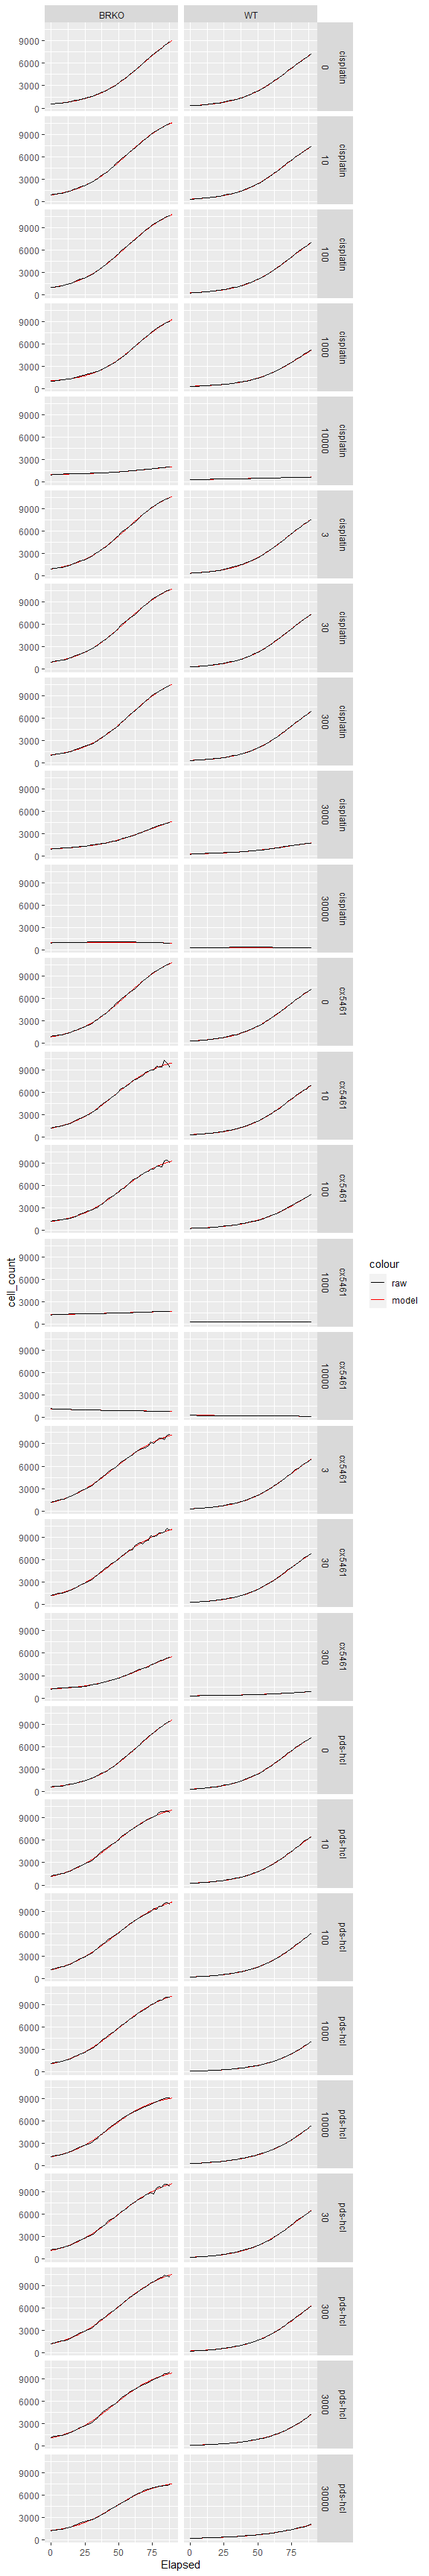
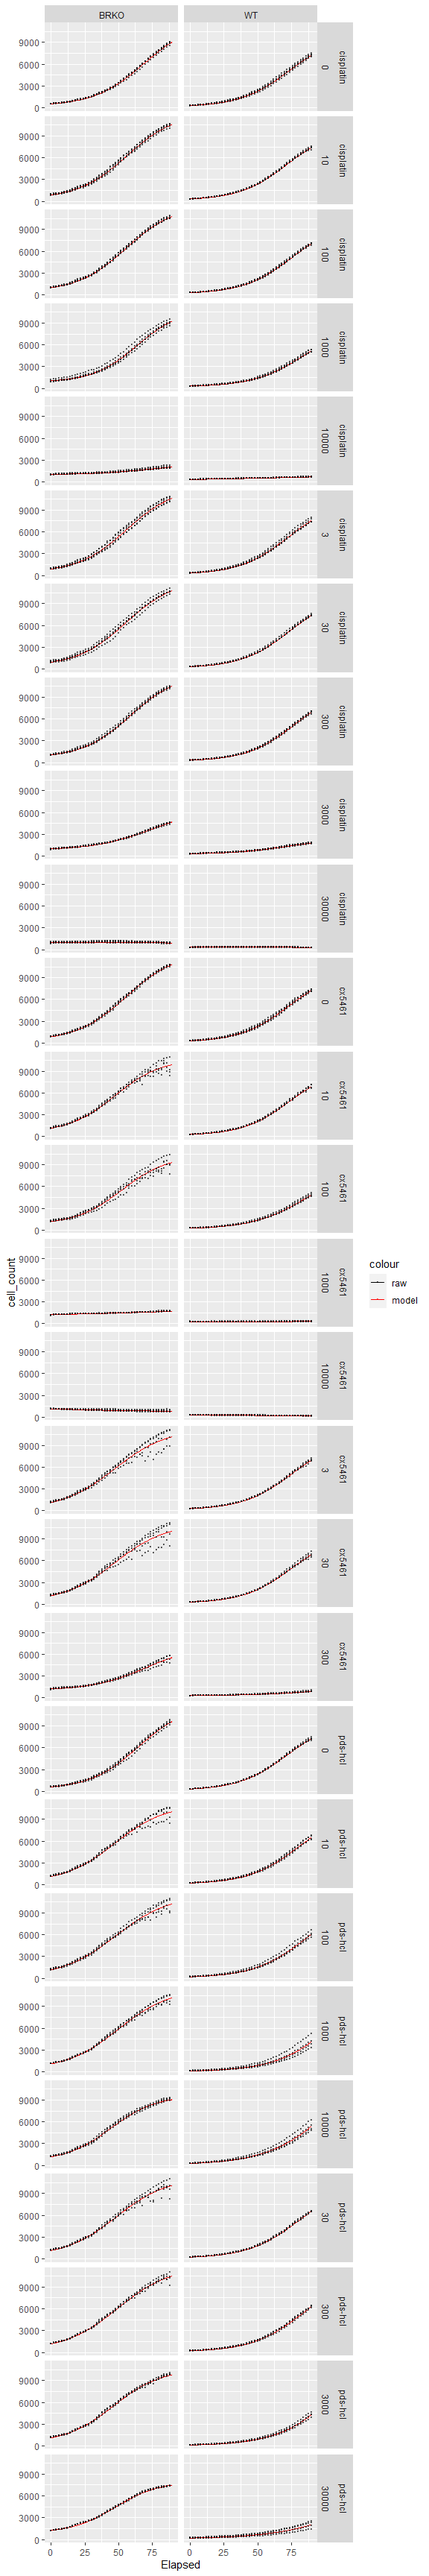
change plot type

diff --git a/g4.md b/g4.md
@@ -124,7 +124,7 @@ plot slope by concentration for drm modelling
     # plotting the curve
     ggplot(data = newdata, aes(x = Elapsed, y = cell_count)) + 
       geom_line(aes(color = "red")) +
-      geom_line(data = raw_summary, aes(color = "black")) +
+      geom_point(data = raw, size = 0.01, alpha = 0.5, aes(color = "black")) +
       scale_color_manual(labels = c("raw", "model"), values = c("black", "red")) +
       facet_grid(rows = vars(compound,as.factor(dose_nM)), cols = vars(cell_line))
 
